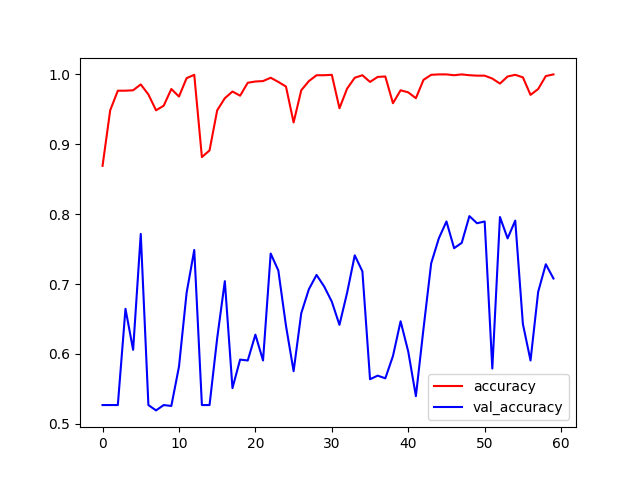
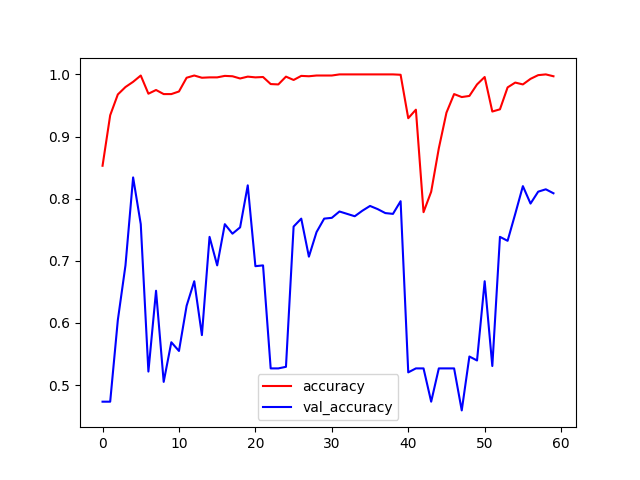
a

diff --git a/vals.py b/vals.py
@@ -47,6 +47,29 @@ def printresultados(augmentation, test_generator, history):
     plt.savefig(
         f"acc_val-acc_xception_non_ct_{'com' if augmentation else 'sem'}_augmentation.png")
     plt.show()
+    
+    file_paths = test_generator.filepaths
+    true_labels = test_generator.classes
+    correct = []
+    incorrect = []
+
+    for i, (pred, true) in enumerate(zip(y_pred_classes, true_labels)):
+        if pred == true:
+            correct.append(file_paths[i])
+        else:
+            incorrect.append(file_paths[i])
+
+    print(f"Correctly classified samples: {len(correct)}")
+    print(f"Incorrectly classified samples: {len(incorrect)}")
+
+    # Salvando as listas de arquivos
+    with open(f'correct_classified_{"com" if augmentation else "sem"}_augmentation.txt', 'w') as f:
+        for item in correct:
+            f.write("%s\n" % item)
+
+    with open(f'incorrect_classified_{"com" if augmentation else "sem"}_augmentation.txt', 'w') as f:
+        for item in incorrect:
+            f.write("%s\n" % item)
 
 
 epochs = 60

diff --git a/cnn_xception.py b/cnn_xception.py
@@ -71,7 +71,7 @@ def create_model(batch_size=batch_size):
 
     new_input_layer = Conv2D(64, (7, 7), strides=(
         2, 2), padding='same', input_shape=(img_height, img_width, 1))
-    base_model.layers[0] = new_input_layer
+    # base_model.layers[0] = new_input_layer
 
     base_model.trainable = True  # Congelar camadas do modelo base
 
